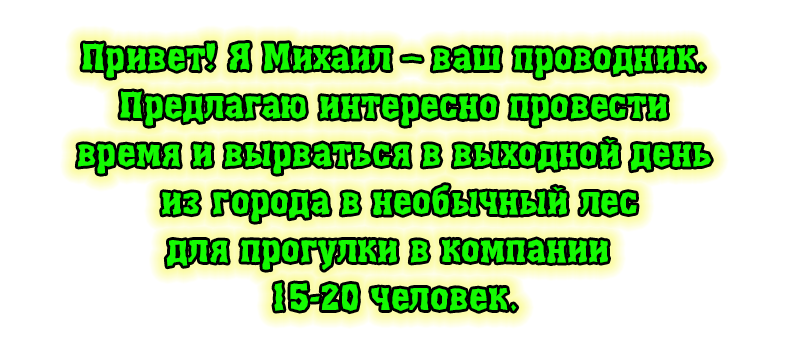
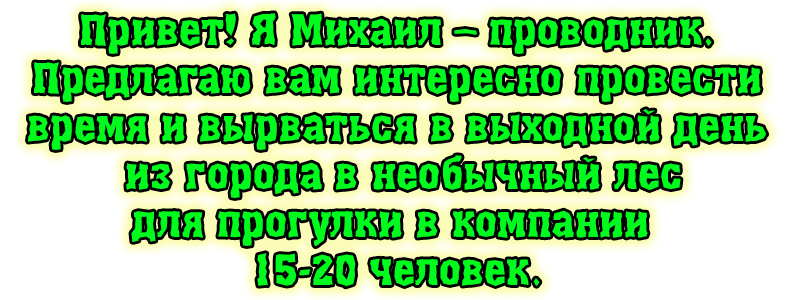
Add files via upload

diff --git a/1/notice.css b/1/notice.css
@@ -210,6 +210,95 @@ input:focus, textarea:focus, select:focus
    width: 100% !important;
 }
 }
+#wb_LayoutGrid2
+{
+   clear: both;
+   position: relative;
+   table-layout: fixed;
+   display: table;
+   text-align: center;
+   width: 100%;
+   background-color: transparent;
+   background-image: none;
+   border: 0px solid #CCCCCC;
+   box-sizing: border-box;
+   margin: 0;
+   margin-right: auto;
+   margin-left: auto;
+   max-width: 600px;
+}
+#LayoutGrid2
+{
+   box-sizing: border-box;
+   padding: 4px 3px 0px 3px;
+   margin-right: auto;
+   margin-left: auto;
+}
+#LayoutGrid2 > .row
+{
+   margin-right: -3px;
+   margin-left: -3px;
+}
+#LayoutGrid2 > .row > .col-1
+{
+   box-sizing: border-box;
+   font-size: 0px;
+   min-height: 1px;
+   padding-right: 3px;
+   padding-left: 3px;
+   position: relative;
+}
+#LayoutGrid2 > .row > .col-1
+{
+   float: left;
+}
+#LayoutGrid2 > .row > .col-1
+{
+   background-color: transparent;
+   background-image: none;
+   border: 0px solid #FFFFFF;
+   width: 100%;
+   text-align: left;
+}
+#LayoutGrid2:before,
+#LayoutGrid2:after,
+#LayoutGrid2 .row:before,
+#LayoutGrid2 .row:after
+{
+   display: table;
+   content: " ";
+}
+#LayoutGrid2:after,
+#LayoutGrid2 .row:after
+{
+   clear: both;
+}
+@media (max-width: 0px)
+{
+#LayoutGrid2 > .row > .col-1
+{
+   float: none;
+   width: 100% !important;
+}
+}
+#wb_Image5
+{
+   margin: 0;
+   vertical-align: top;
+}
+#Image5
+{
+   border: 0px solid #000000;
+   box-sizing: border-box;
+   padding: 0;
+   display: block;
+   width: 100%;
+   height: auto;
+   max-width: 800px;
+   margin-left: auto;
+   margin-right: auto;
+   vertical-align: top;
+}
 #wb_Image1
 {
    display: inline-block;
@@ -237,6 +326,13 @@ input:focus, textarea:focus, select:focus
    width: 100%;
    height: auto;
    z-index: 3;
+}
+#wb_Image5
+{
+   display: inline-block;
+   width: 100%;
+   height: auto;
+   z-index: 4;
 }
 @media only screen and (max-width: 969px)
 {
@@ -340,5 +436,45 @@ body
    border: 0px solid #FFFFFF;
    border-radius: 0px;
    text-align: left;
+}
+#wb_LayoutGrid2
+{
+   visibility: visible;
+   display: table;
+}
+#wb_LayoutGrid2
+{
+   margin-top: 0px;
+   margin-bottom: 0px;
+}
+#LayoutGrid2
+{
+   padding: 4px 3px 0px 3px;
+}
+#LayoutGrid2 .row
+{
+   margin-right: -3px;
+   margin-left: -3px;
+}
+#LayoutGrid2 > .row > .col-1
+{
+   padding-right: 3px;
+   padding-left: 3px;
+}
+#LayoutGrid2 > .row > .col-1
+{
+   display: block;
+   width: 100%;
+   border: 0px solid #FFFFFF;
+   border-radius: 0px;
+   text-align: left;
+}
+#wb_Image5
+{
+   width: 100%;
+   visibility: visible;
+   display: block;
+   margin: 0;
+   padding: 0;
 }
 }

diff --git a/1/notice.html b/1/notice.html
@@ -37,5 +37,16 @@
 </div>
 </div>
 </div>
+<div id="wb_LayoutGrid2">
+<div id="LayoutGrid2">
+<div class="row">
+<div class="col-1">
+<div id="wb_Image5">
+<img src="images/notice.png" id="Image5" alt="">
+</div>
+</div>
+</div>
+</div>
+</div>
 </body>
 </html>
